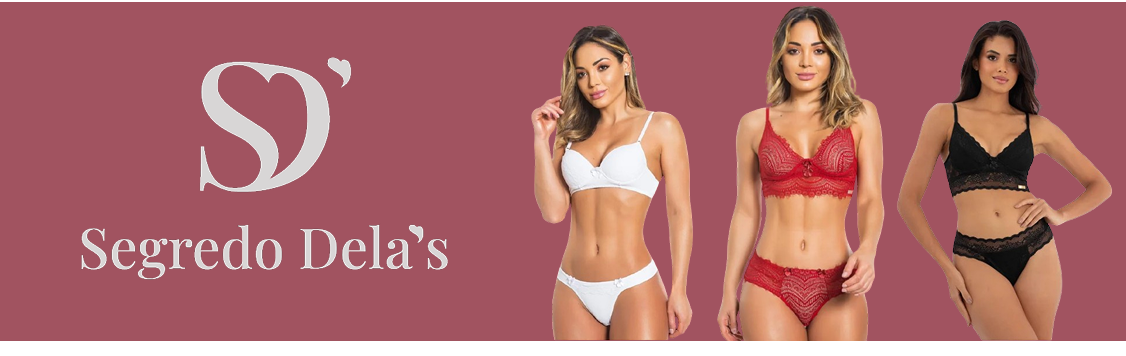
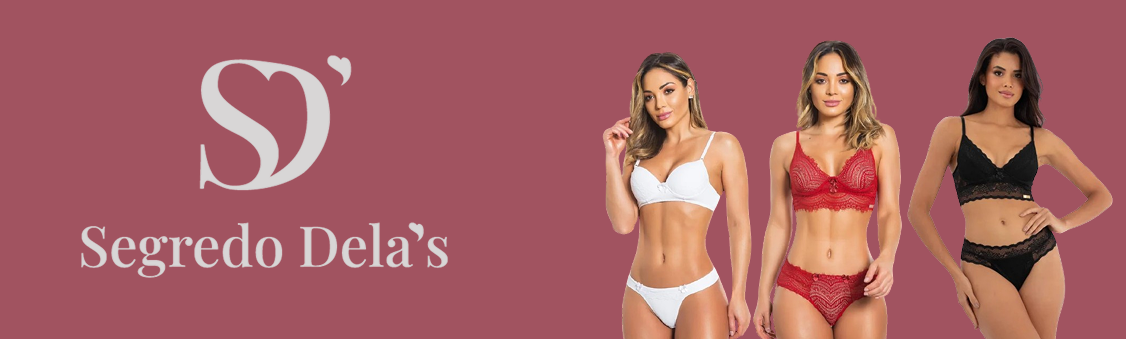
commit4

diff --git a/style.css b/style.css
@@ -76,10 +76,72 @@ h1, h2, h3 {
 }
 
 .hero {
-  background: url('img/banner1.png') center/cover no-repeat;
-  height: 400px;
   width: 100%;
+  overflow: hidden;
+  position: relative;
 }
+
+.carousel {
+  position: relative;
+  height: 400px;
+}
+
+.banner {
+  position: absolute;
+  top: 0;
+  left: 0;
+  width: 100%;
+  height: 100%;
+  opacity: 0;
+  transition: opacity 0.7s ease-in-out;
+  z-index: 1;
+}
+
+.banner img {
+  width: 100%;
+  height: 100%;
+  object-fit: contain;
+  display: block;
+  background-color: #fff; /* ou #000 dependendo da imagem */
+}
+
+
+.banner.active {
+  opacity: 1;
+  z-index: 2;
+}
+
+.prev,
+.next {
+  position: absolute;
+  top: 50%;
+  transform: translateY(-50%);
+  background-color: rgba(255, 255, 255, 0.4); /* mais transparente */
+  border: none;
+  font-size: 2rem;
+  padding: 0.3rem 0.8rem;
+  cursor: pointer;
+  border-radius: 50%;
+  color: #a33652;
+  z-index: 3;
+  transition: background-color 0.3s;
+  backdrop-filter: blur(4px); /* dá um efeito fosco bonito */
+}
+
+
+.prev:hover,
+.next:hover {
+  background-color: rgba(255, 255, 255, 0.9);
+}
+
+.prev {
+  left: 10px;
+}
+
+.next {
+  right: 10px;
+}
+
 
 
 .hero-logo {
@@ -213,3 +275,60 @@ h1, h2, h3 {
   height: auto;
   display: block;
 }
+.menu-toggle {
+  display: none;
+  font-size: 2rem;
+  cursor: pointer;
+  color: #a33652;
+}
+
+@media (max-width: 768px) {
+  .nav {
+    display: none;
+    flex-direction: column;
+    gap: 0;
+    background-color: #fff;
+    position: absolute;
+    top: 100%;
+    left: 0;
+    width: 100%;
+    border-top: 1px solid #ddd;
+    padding: 1rem 0;
+  }
+
+  .nav.show {
+    display: flex;
+  }
+
+  .menu-toggle {
+    display: block;
+  }
+
+  .header-container {
+    position: relative;
+  }
+
+  .nav a {
+    padding: 1rem;
+    text-align: center;
+    border-bottom: 1px solid #eee;
+  }
+}
+@media (max-width: 600px) {
+  .prev,
+  .next {
+    font-size: 1rem;
+    padding: 0.15rem 0.4rem;
+  }
+}
+@media (max-width: 600px) {
+  .section {
+    padding: 1.5rem 0; /* era 3rem, agora bem mais colado */
+  }
+
+  .carousel {
+    margin-top: -1rem; /* cola no header */
+    margin-bottom: 0.5rem; /* cola na próxima seção */
+  }
+}
+

diff --git a/index.html b/index.html
@@ -12,10 +12,11 @@
     <div class="container header-container">
       <div class="logo-box">
         <img src="img/segredo_icone.png" alt="Logo Segredo Dela's" class="logo" />
-        <span class="brand-name">Segredo Dela's<span class="dot">.com.br</span></span>
+        <span class="brand-name">Segredo Dela's</span>
       </div>
            
-      <nav class="nav">
+      <div class="menu-toggle" id="menu-toggle">&#9776;</div>
+      <nav class="nav" id="nav-menu">
         <a href="#produtos">Todos</a>
         <a href="#sutia">Sutiã</a>
         <a href="#calcinha">Calcinha</a>
@@ -23,10 +24,24 @@
         <a href="#modelador">Modelador</a>
       </nav>
       
+      
     </div>
   </header>
 
-  <section class="hero"></section>
+  <section class="hero">
+    <div class="carousel">
+      <div class="banner active">
+        <img src="img/banner12.png" alt="Banner 1" />
+      </div>
+      <div class="banner">
+        <img src="img/banner22.png" alt="Banner 2" />
+      </div>
+      <button class="prev">&#10094;</button>
+      <button class="next">&#10095;</button>
+    </div>
+  </section>
+  
+  
 
   
 
@@ -71,5 +86,6 @@
       <p>&copy; 2025 Segredo Dela's. Todos os direitos reservados.</p>
     </div>
   </footer>
+  <script src="script.js"></script>
 </body>
 </html>

diff --git a/script.js b/script.js
@@ -1,0 +1,23 @@
+const banners = document.querySelectorAll('.banner');
+const nextBtn = document.querySelector('.next');
+const prevBtn = document.querySelector('.prev');
+let current = 0;
+
+function showBanner(index) {
+  banners.forEach((banner, i) => {
+    banner.classList.toggle('active', i === index);
+  });
+}
+
+nextBtn.addEventListener('click', () => {
+  current = (current + 1) % banners.length;
+  showBanner(current);
+});
+
+prevBtn.addEventListener('click', () => {
+  current = (current - 1 + banners.length) % banners.length;
+  showBanner(current);
+});
+document.getElementById('menu-toggle').addEventListener('click', function () {
+  document.getElementById('nav-menu').classList.toggle('show');
+});
